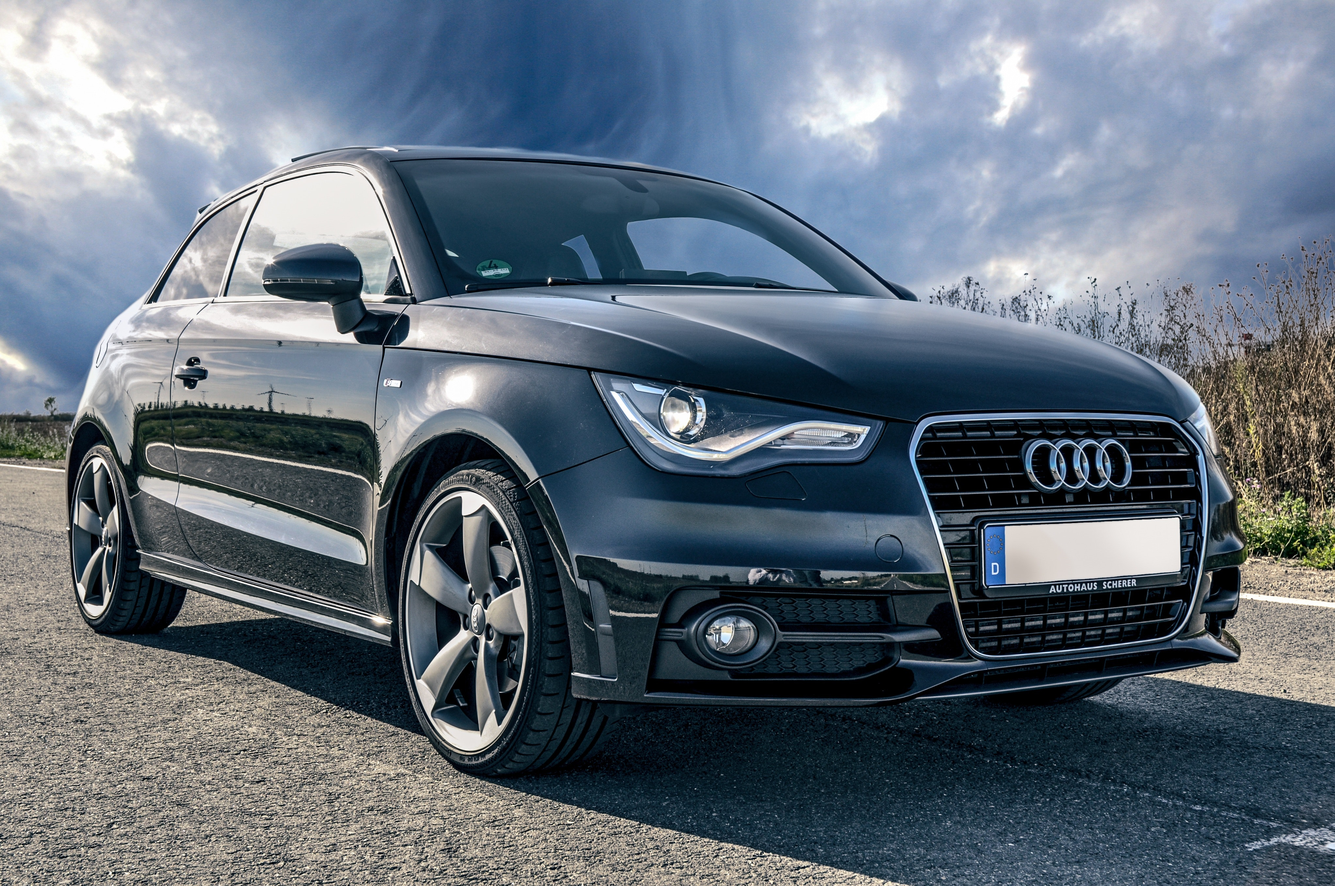
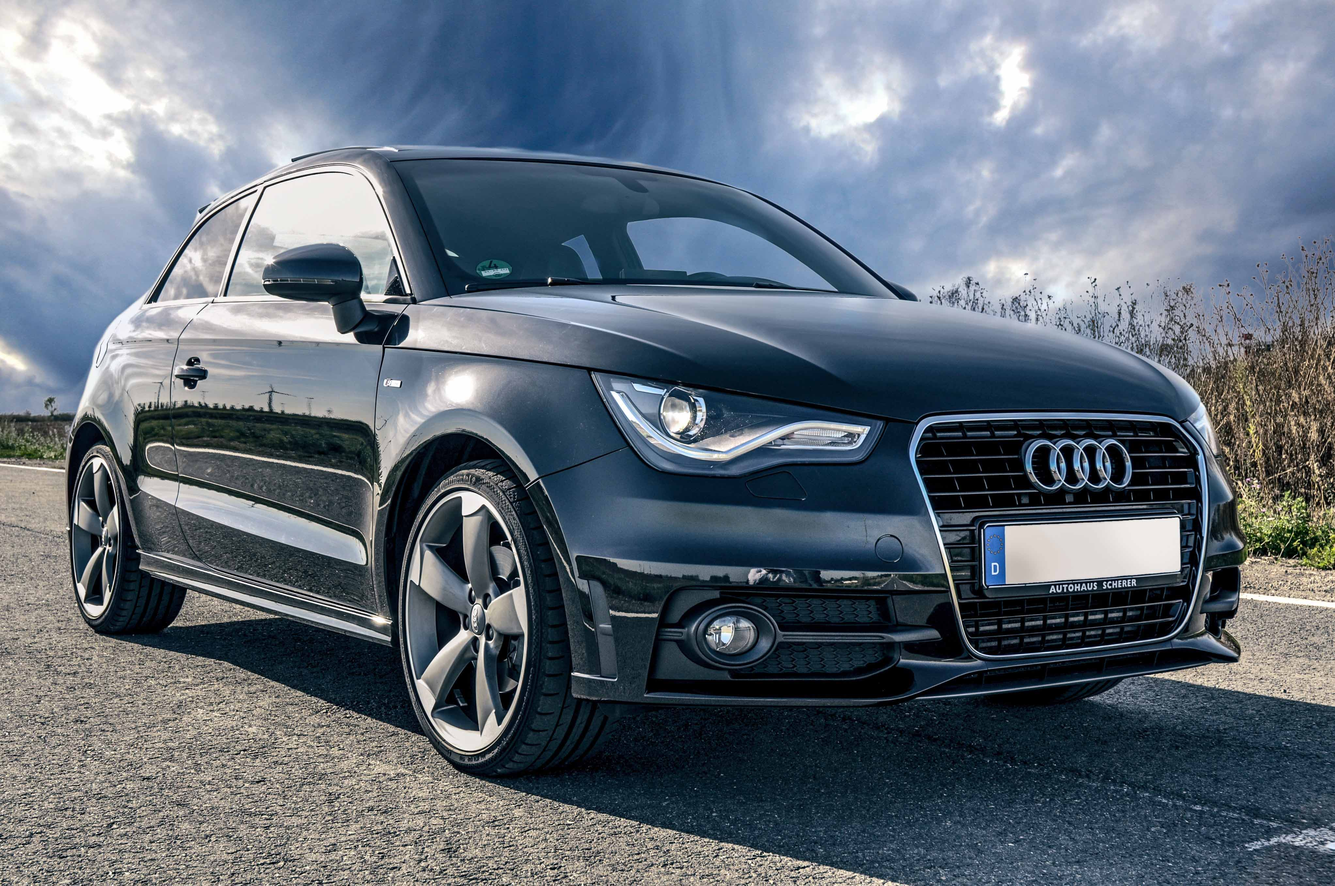
Optimised website images

diff --git a/website/basesite/templates/basesite/employee_home.html b/website/basesite/templates/basesite/employee_home.html
@@ -26,11 +26,36 @@
 		padding: 12px 16px; /* Some padding */
 		font-size: 16px; /* Set a font size */
 		cursor: pointer; /* Mouse pointer on hover */
+		width: 40%;
 	}
 	
+		#Customer_Info_Button_two {
+		background-color: mediumseagreen; /* Blue background */
+		border: none; /* Remove borders */
+		color: white; /* White text */
+		padding: 12px 16px; /* Some padding */
+		font-size: 24px; /* Set a font size */
+		cursor: pointer; /* Mouse pointer on hover */
+		width: 59%;
+		height:72px;
+	}
+
+	#center_boi{
+		position: absolute;
+		top: 50%;
+		-ms-transform: translateY(-50%);
+  		transform: translateY(-50%);
+	}
+
+
+
 	/* Darker background on mouse-over */
 	#Customer_Info_Button:hover {
 		background-color: RoyalBlue;
+	}
+
+	#Customer_Info_Button_two:hover {
+		background-color: green;
 	}
 
 </style>
@@ -61,6 +86,11 @@
 					<img class="image-responsive" src="/static/glyph-iconset-master/svg/si-glyph-person-public.svg" style="width:48px; height:48px;" />
 					<i class="fa fa-folder">Customer Information</i>
 				</div>
+				<a href="http://localhost:8000/search/?Search=">
+				<div class="btn btn-success" id="Customer_Info_Button_two">
+					<i class="fa fa-folder">Search For Cars</i>
+				</div>
+				</a>
 				
 				<br><br>
 

diff --git a/website/basesite/templates/basesite/base.html b/website/basesite/templates/basesite/base.html
@@ -1,4 +1,3 @@
-
 <!doctype html>
 <html lang="en">
   <head>
